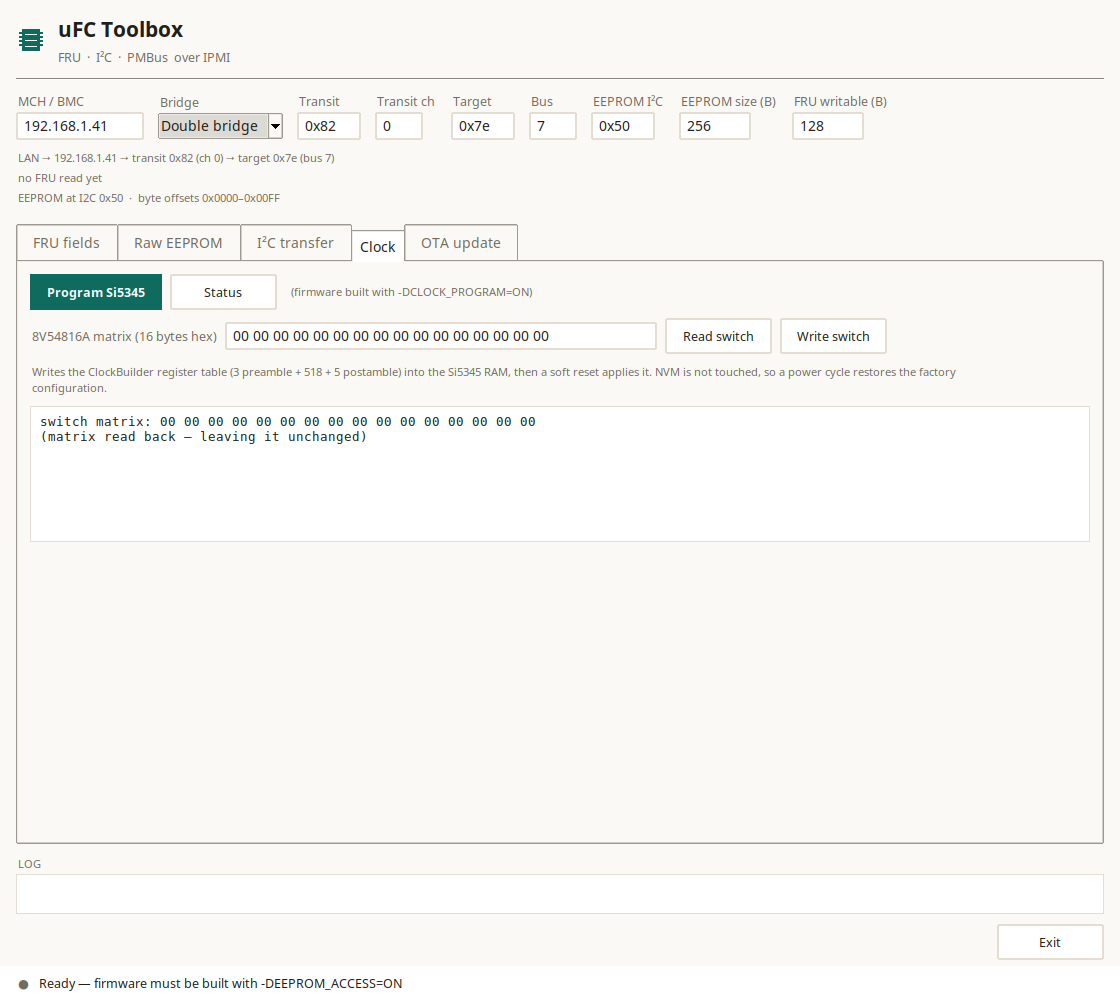
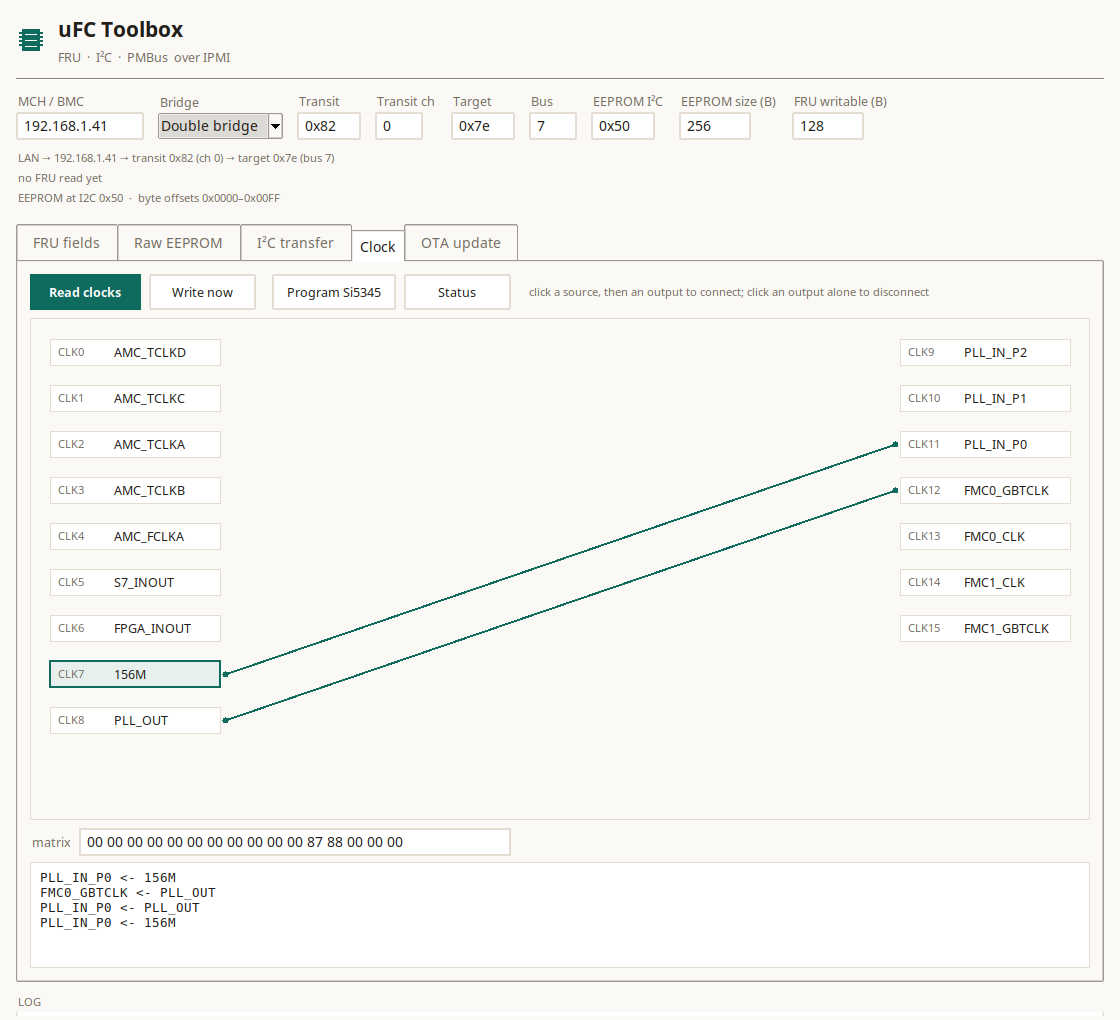
tools/fru_gui: graphical clock crossbar editor
The Clock tab now draws the 8V54816A as a crossbar: the nine sources on
the left (AMC TCLKA-D, FCLKA, S7/FPGA inputs, 156M, PLL_OUT) and the
seven destinations on the right (Si5345 PLL inputs, FMC0/FMC1 clocks).
A click selects a source, a second click on a destination connects it
(matrix byte 0x80|source); clicking a destination alone disconnects it.
The 16-byte matrix is shown live and used by Read clocks / Write now.
README and screenshot updated; binary rebuilt.

diff --git a/tools/fru_gui/fru_gui_tk.py b/tools/fru_gui/fru_gui_tk.py
@@ -311,34 +311,111 @@ class FruEditor(tk.Tk):
         bottom.pack(fill="x")
         ttk.Button(bottom, text="Exit", command=self.destroy).pack(side="right")
 
+    CLOCK_INPUTS = [
+        ("CLK0", "AMC_TCLKD"), ("CLK1", "AMC_TCLKC"), ("CLK2", "AMC_TCLKA"),
+        ("CLK3", "AMC_TCLKB"), ("CLK4", "AMC_FCLKA"), ("CLK5", "S7_INOUT"),
+        ("CLK6", "FPGA_INOUT"), ("CLK7", "156M"), ("CLK8", "PLL_OUT"),
+    ]
+    CLOCK_OUTPUTS = [
+        ("CLK9", "PLL_IN_P2"), ("CLK10", "PLL_IN_P1"), ("CLK11", "PLL_IN_P0"),
+        ("CLK12", "FMC0_GBTCLK"), ("CLK13", "FMC0_CLK"),
+        ("CLK14", "FMC1_CLK"), ("CLK15", "FMC1_GBTCLK"),
+    ]
+
     def _build_clock_tab(self, parent):
         row = ttk.Frame(parent)
         row.pack(fill="x", pady=(0, 8))
-        ttk.Button(row, text="Program Si5345", style="Primary.TButton",
-                   command=self.clock_program).pack(side="left")
+        ttk.Button(row, text="Read clocks", style="Primary.TButton",
+                   command=self.clock_switch_read).pack(side="left")
+        ttk.Button(row, text="Write now", command=self.clock_switch_write).pack(side="left", padx=(8, 0))
+        ttk.Button(row, text="Program Si5345", command=self.clock_program).pack(side="left", padx=(16, 0))
         ttk.Button(row, text="Status", command=self.clock_status).pack(side="left", padx=(8, 0))
-        ttk.Label(row, text="(firmware built with -DCLOCK_PROGRAM=ON)",
-                  style="Hint.TLabel").pack(side="left", padx=(12, 0))
+        ttk.Label(row, text="click a source, then an output to connect; click an output alone to disconnect",
+                  style="Hint.TLabel").pack(side="left", padx=(16, 0))
+
+        self.clock_matrix = bytearray(16)
+        self.clock_selected = None
+        self.clock_canvas = tk.Canvas(parent, height=500, bg=BG, highlightthickness=1,
+                                      highlightbackground=LINE)
+        self.clock_canvas.pack(fill="both", expand=True, pady=(0, 8))
+        self.clock_canvas.bind("<Button-1>", self._clock_click)
+        self.clock_canvas.bind("<Configure>", lambda e: self._clock_redraw())
 
         srow = ttk.Frame(parent)
-        srow.pack(fill="x", pady=(0, 8))
-        ttk.Label(srow, text="8V54816A matrix (16 bytes hex)",
-                  style="FieldLabel.TLabel").pack(side="left")
+        srow.pack(fill="x", pady=(0, 6))
+        ttk.Label(srow, text="matrix", style="FieldLabel.TLabel").pack(side="left")
         self.switch_var = tk.StringVar(value="")
-        ttk.Entry(srow, textvariable=self.switch_var, width=52).pack(side="left", padx=(6, 8))
-        ttk.Button(srow, text="Read switch", command=self.clock_switch_read).pack(side="left")
-        ttk.Button(srow, text="Write switch", command=self.clock_switch_write).pack(side="left", padx=(8, 0))
+        ttk.Entry(srow, textvariable=self.switch_var, width=52, state="readonly").pack(side="left", padx=(6, 10))
 
-        ttk.Label(parent,
-                  text="Writes the ClockBuilder register table (3 preamble + 518 + 5 postamble) "
-                       "into the Si5345 RAM, then a soft reset applies it. NVM is not touched, "
-                       "so a power cycle restores the factory configuration.",
-                  style="Hint.TLabel", wraplength=1000, justify="left").pack(anchor="w", pady=(0, 8))
-
-        self.clock_out = tk.Text(parent, height=8, font=(MONO_FONT, 9), state="disabled",
+        self.clock_out = tk.Text(parent, height=6, font=(MONO_FONT, 9), state="disabled",
                                  bg=PANEL, fg=INK, relief="flat", highlightthickness=1,
                                  highlightbackground=LINE, padx=8, pady=6)
         self.clock_out.pack(fill="x")
+
+    def _clock_geometry(self):
+        w = self.clock_canvas.winfo_width() or 960
+        left = 20
+        right = w - 190
+        row_h = 46
+        y0 = 34
+        return left, right, row_h, y0
+
+    def _clock_redraw(self):
+        c = self.clock_canvas
+        c.delete("all")
+        left, right, row_h, y0 = self._clock_geometry()
+        box_w = 170
+
+        for i, (port, name) in enumerate(self.CLOCK_INPUTS):
+            y = y0 + i * row_h
+            sel = (self.clock_selected == i)
+            c.create_rectangle(left, y - 13, left + box_w, y + 13,
+                               fill=PANEL if not sel else "#E7F0ED",
+                               outline=ACCENT if sel else LINE, width=2 if sel else 1)
+            c.create_text(left + 8, y, text=port, anchor="w", fill=MUTED, font=(UI_FONT, 8))
+            c.create_text(left + 64, y, text=name, anchor="w", fill=INK, font=(UI_FONT, 9))
+
+        for j, (port, name) in enumerate(self.CLOCK_OUTPUTS):
+            y = y0 + j * row_h
+            cfg = self.clock_matrix[9 + j]
+            src = cfg & 0x0F if (cfg & 0x80) else None
+            c.create_rectangle(right, y - 13, right + box_w, y + 13,
+                               fill=PANEL, outline=LINE, width=1)
+            c.create_text(right + 8, y, text=port, anchor="w", fill=MUTED, font=(UI_FONT, 8))
+            c.create_text(right + 64, y, text=name, anchor="w", fill=INK, font=(UI_FONT, 9))
+            if src is not None and src < len(self.CLOCK_INPUTS):
+                sy = y0 + src * row_h
+                c.create_line(left + box_w + 5, sy, right - 5, y, fill=ACCENT, width=2,
+                              smooth=True)
+                c.create_oval(left + box_w + 2, sy - 3, left + box_w + 8, sy + 3, fill=ACCENT, outline="")
+                c.create_oval(right - 8, y - 3, right - 2, y + 3, fill=ACCENT, outline="")
+
+    def _clock_click(self, event):
+        left, right, row_h, y0 = self._clock_geometry()
+        box_w = 170
+        x, y = event.x, event.y
+        if left <= x <= left + box_w:
+            idx = int(round((y - y0) / row_h))
+            if 0 <= idx < len(self.CLOCK_INPUTS):
+                self.clock_selected = None if self.clock_selected == idx else idx
+                self._clock_redraw()
+                return
+        if right <= x <= right + box_w:
+            j = int(round((y - y0) / row_h))
+            if 0 <= j < len(self.CLOCK_OUTPUTS):
+                if self.clock_selected is None:
+                    self.clock_matrix[9 + j] = 0x00
+                    self._clock_log("%s disconnected" % self.CLOCK_OUTPUTS[j][1])
+                else:
+                    self.clock_matrix[9 + j] = 0x80 | self.clock_selected
+                    self._clock_log("%s <- %s" % (self.CLOCK_OUTPUTS[j][1],
+                                                  self.CLOCK_INPUTS[self.clock_selected][1]))
+                self._clock_selected = None
+                self._clock_sync()
+                self._clock_redraw()
+
+    def _clock_sync(self):
+        self.switch_var.set(" ".join("%02x" % b for b in self.clock_matrix))
 
     def _clock_log(self, text):
         self.clock_out.configure(state="normal")
@@ -349,20 +426,30 @@ class FruEditor(tk.Tk):
     def clock_switch_read(self):
         try:
             data = self._access().clock_switch_read()
-            self.switch_var.set(" ".join("%02x" % b for b in data))
-            self._clock_log("switch matrix: " + " ".join("%02x" % b for b in data))
+            self.clock_matrix = bytearray(data)
+            for i in range(16):
+                if i < 9:
+                    self.clock_matrix[i] = 0x00
+            self._clock_sync()
+            self._clock_redraw()
+            self._clock_log("switch matrix: " + " ".join("%02x" % b for b in self.clock_matrix))
         except Exception as e:
             self._clock_log("ERROR: %s" % e)
 
     def clock_switch_write(self):
         try:
-            data = self._hex_bytes(self.switch_var.get())
-            self._access().clock_switch_write(data)
-            self._clock_log("switch matrix written: " + " ".join("%02x" % b for b in data))
+            self._access().clock_switch_write(bytes(self.clock_matrix))
+            self._clock_log("switch matrix written: " + " ".join("%02x" % b for b in self.clock_matrix))
             self._status("Clock switch written", "ok")
         except Exception as e:
             self._status("Clock switch write failed", "error")
             self._clock_log("ERROR: %s" % e)
+
+    def _clock_log(self, text):
+        self.clock_out.configure(state="normal")
+        self.clock_out.insert("end", text + "\n")
+        self.clock_out.see("end")
+        self.clock_out.configure(state="disabled")
 
     def clock_program(self):
         try:

diff --git a/tools/fru_gui/README.md b/tools/fru_gui/README.md
@@ -132,9 +132,18 @@ Presets: **EEPROM FRU** (0x70 ch0, 0x50, read 8), **UCD PMBus** (0x70 ch0,
 
 ## Clock tab
 
-- **8V54816A matrix** — read/write the 16-byte clock-switch matrix (port map
-  from the uFC schematic: see [docs/CLOCK_SWITCH.md](../../docs/CLOCK_SWITCH.md))
+The 8V54816A is drawn as a crossbar: sources on the left (AMC TCLKA-D,
+FCLKA, S7/FPGA inputs, 156M, PLL_OUT) and destinations on the right
+(Si5345 PLL inputs, FMC0/FMC1 clocks). Click a source, then a destination
+to connect it; click a destination alone to disconnect. The 16-byte matrix
+updates live.
+
+- **Read clocks** / **Write now** — read/write the switch matrix over I²C
+  (mux 0x70 ch2, 0x58)
 - **Program Si5345** — firmware command `0x16` (build with `-DCLOCK_PROGRAM=ON`)
+- **Status** — command `0x17`
+- **Save to flash** — next step: the 19 KB FRU-format clock store
+  ([docs/CLOCK_CONFIG_FORMAT.md](../../docs/CLOCK_CONFIG_FORMAT.md))
 - **Status** — command `0x17`: idle / running / OK / error + failing register
 
 The table is the ClockBuilder Pro export
